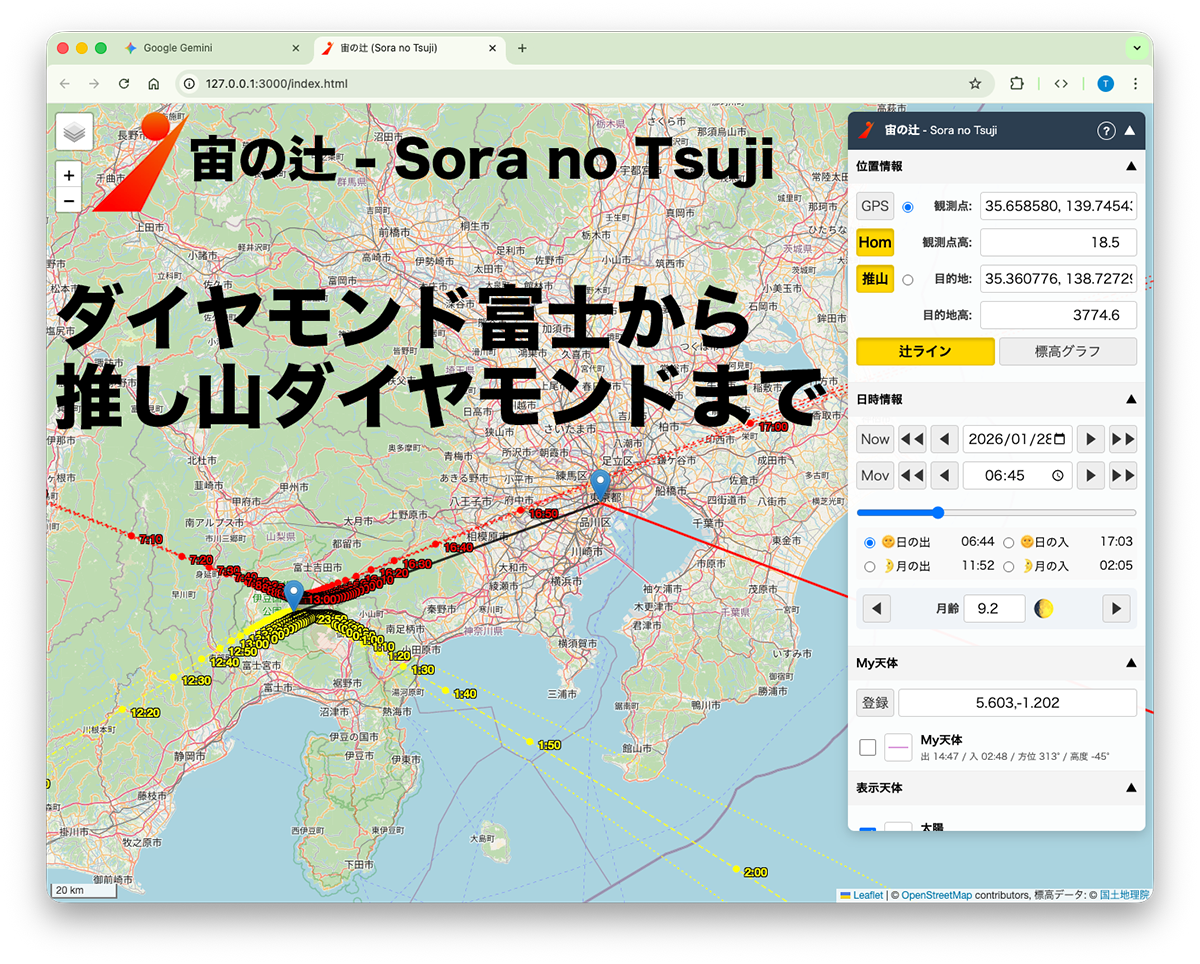
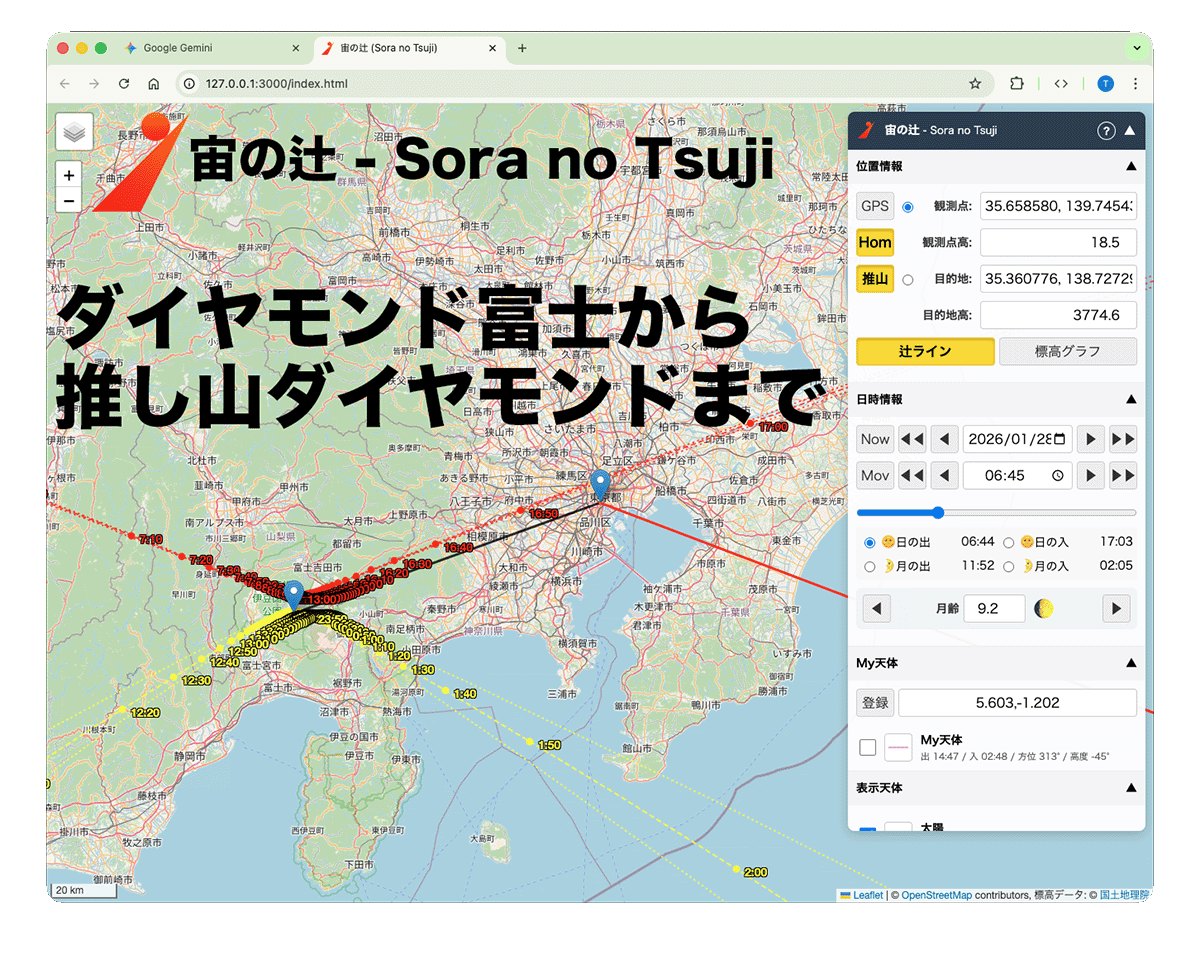
V1.7.9-表示修正:ogp、観測点初期値変更

diff --git a/script.js b/script.js
@@ -26,7 +26,7 @@ const GAS_API_URL = "https://script.google.com/macros/s/AKfycbzq94EkeZgbWlFb65cb
 let visitorData = null; // 取得したカウンターデータを保持
 
 // デフォルト値 (東京タワー & 富士山)
-const DEFAULT_START_LATLNG = { lat: 35.65858, lng: 139.74543 };
+const DEFAULT_START_LATLNG = { lat: 35.658449, lng: 139.745536 };
 const DEFAULT_START_ELEV = 150.0;
 const DEFAULT_END_LATLNG = { lat: 35.360776, lng: 138.727299 };
 const DEFAULT_END_ELEV = 3776.0;
